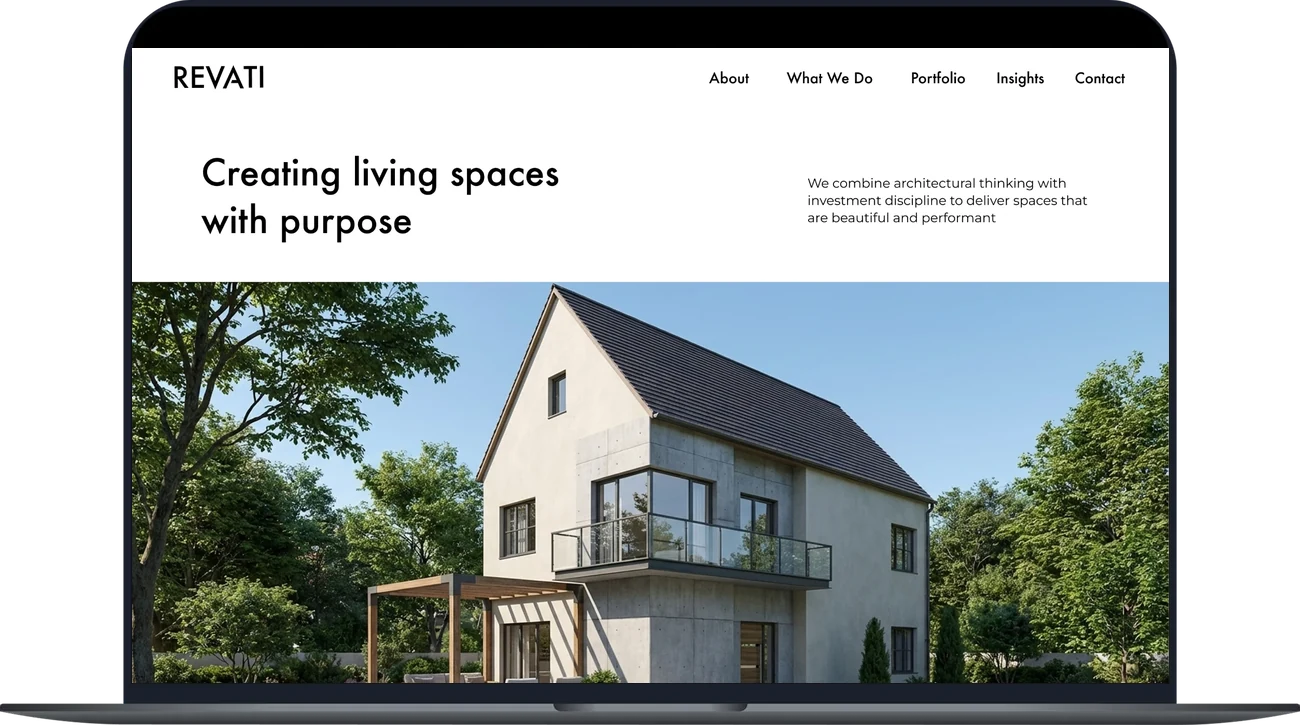
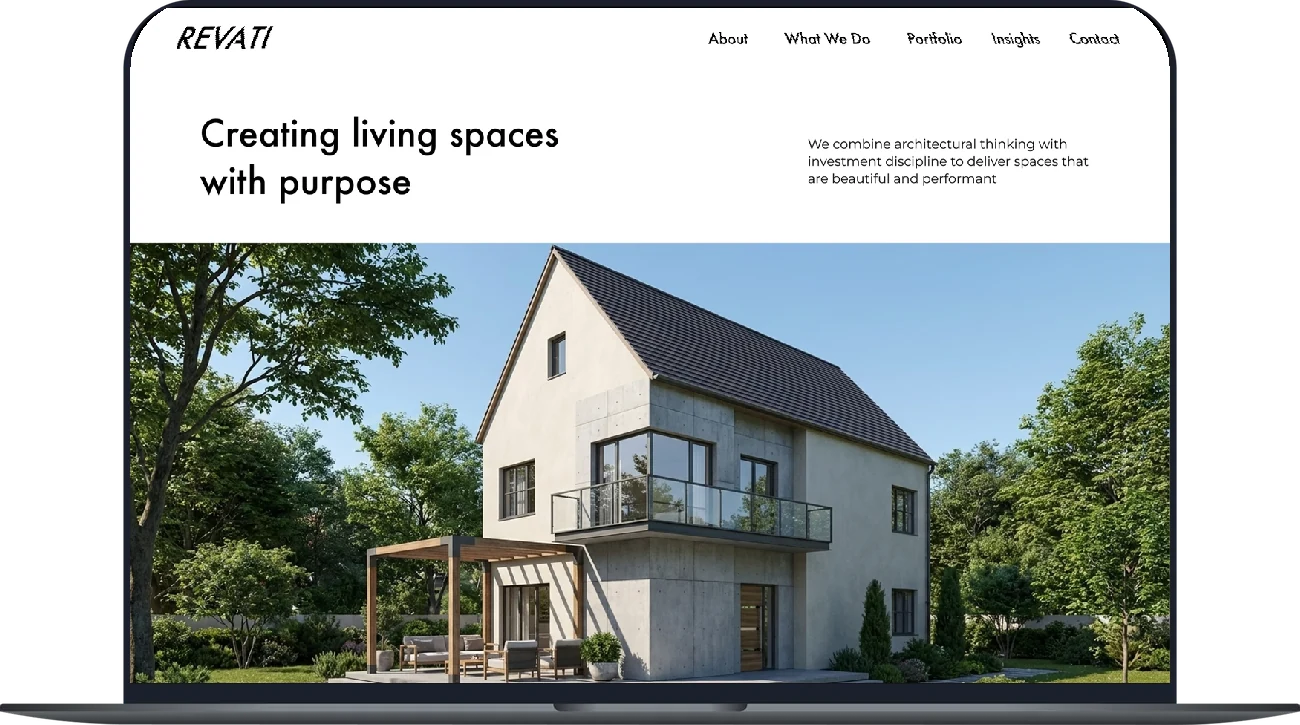
Revati card: laptop screen follows the lid's perspective, plainer description

diff --git a/index.html b/index.html
@@ -689,8 +689,8 @@
         </div>
 
         <p class="case-desc stage1">
-          <b>Revati</b> is a design and real estate development company, where I built a site
-          that reads as clearly to an investor as it does to a resident
+          <b>Revati website design</b> for a real estate development company, covering the
+          home page, services, project pages and a due diligence portfolio
         </p>
 
         <a class="dive stage1" href="revati-case.html">Dive in</a>
